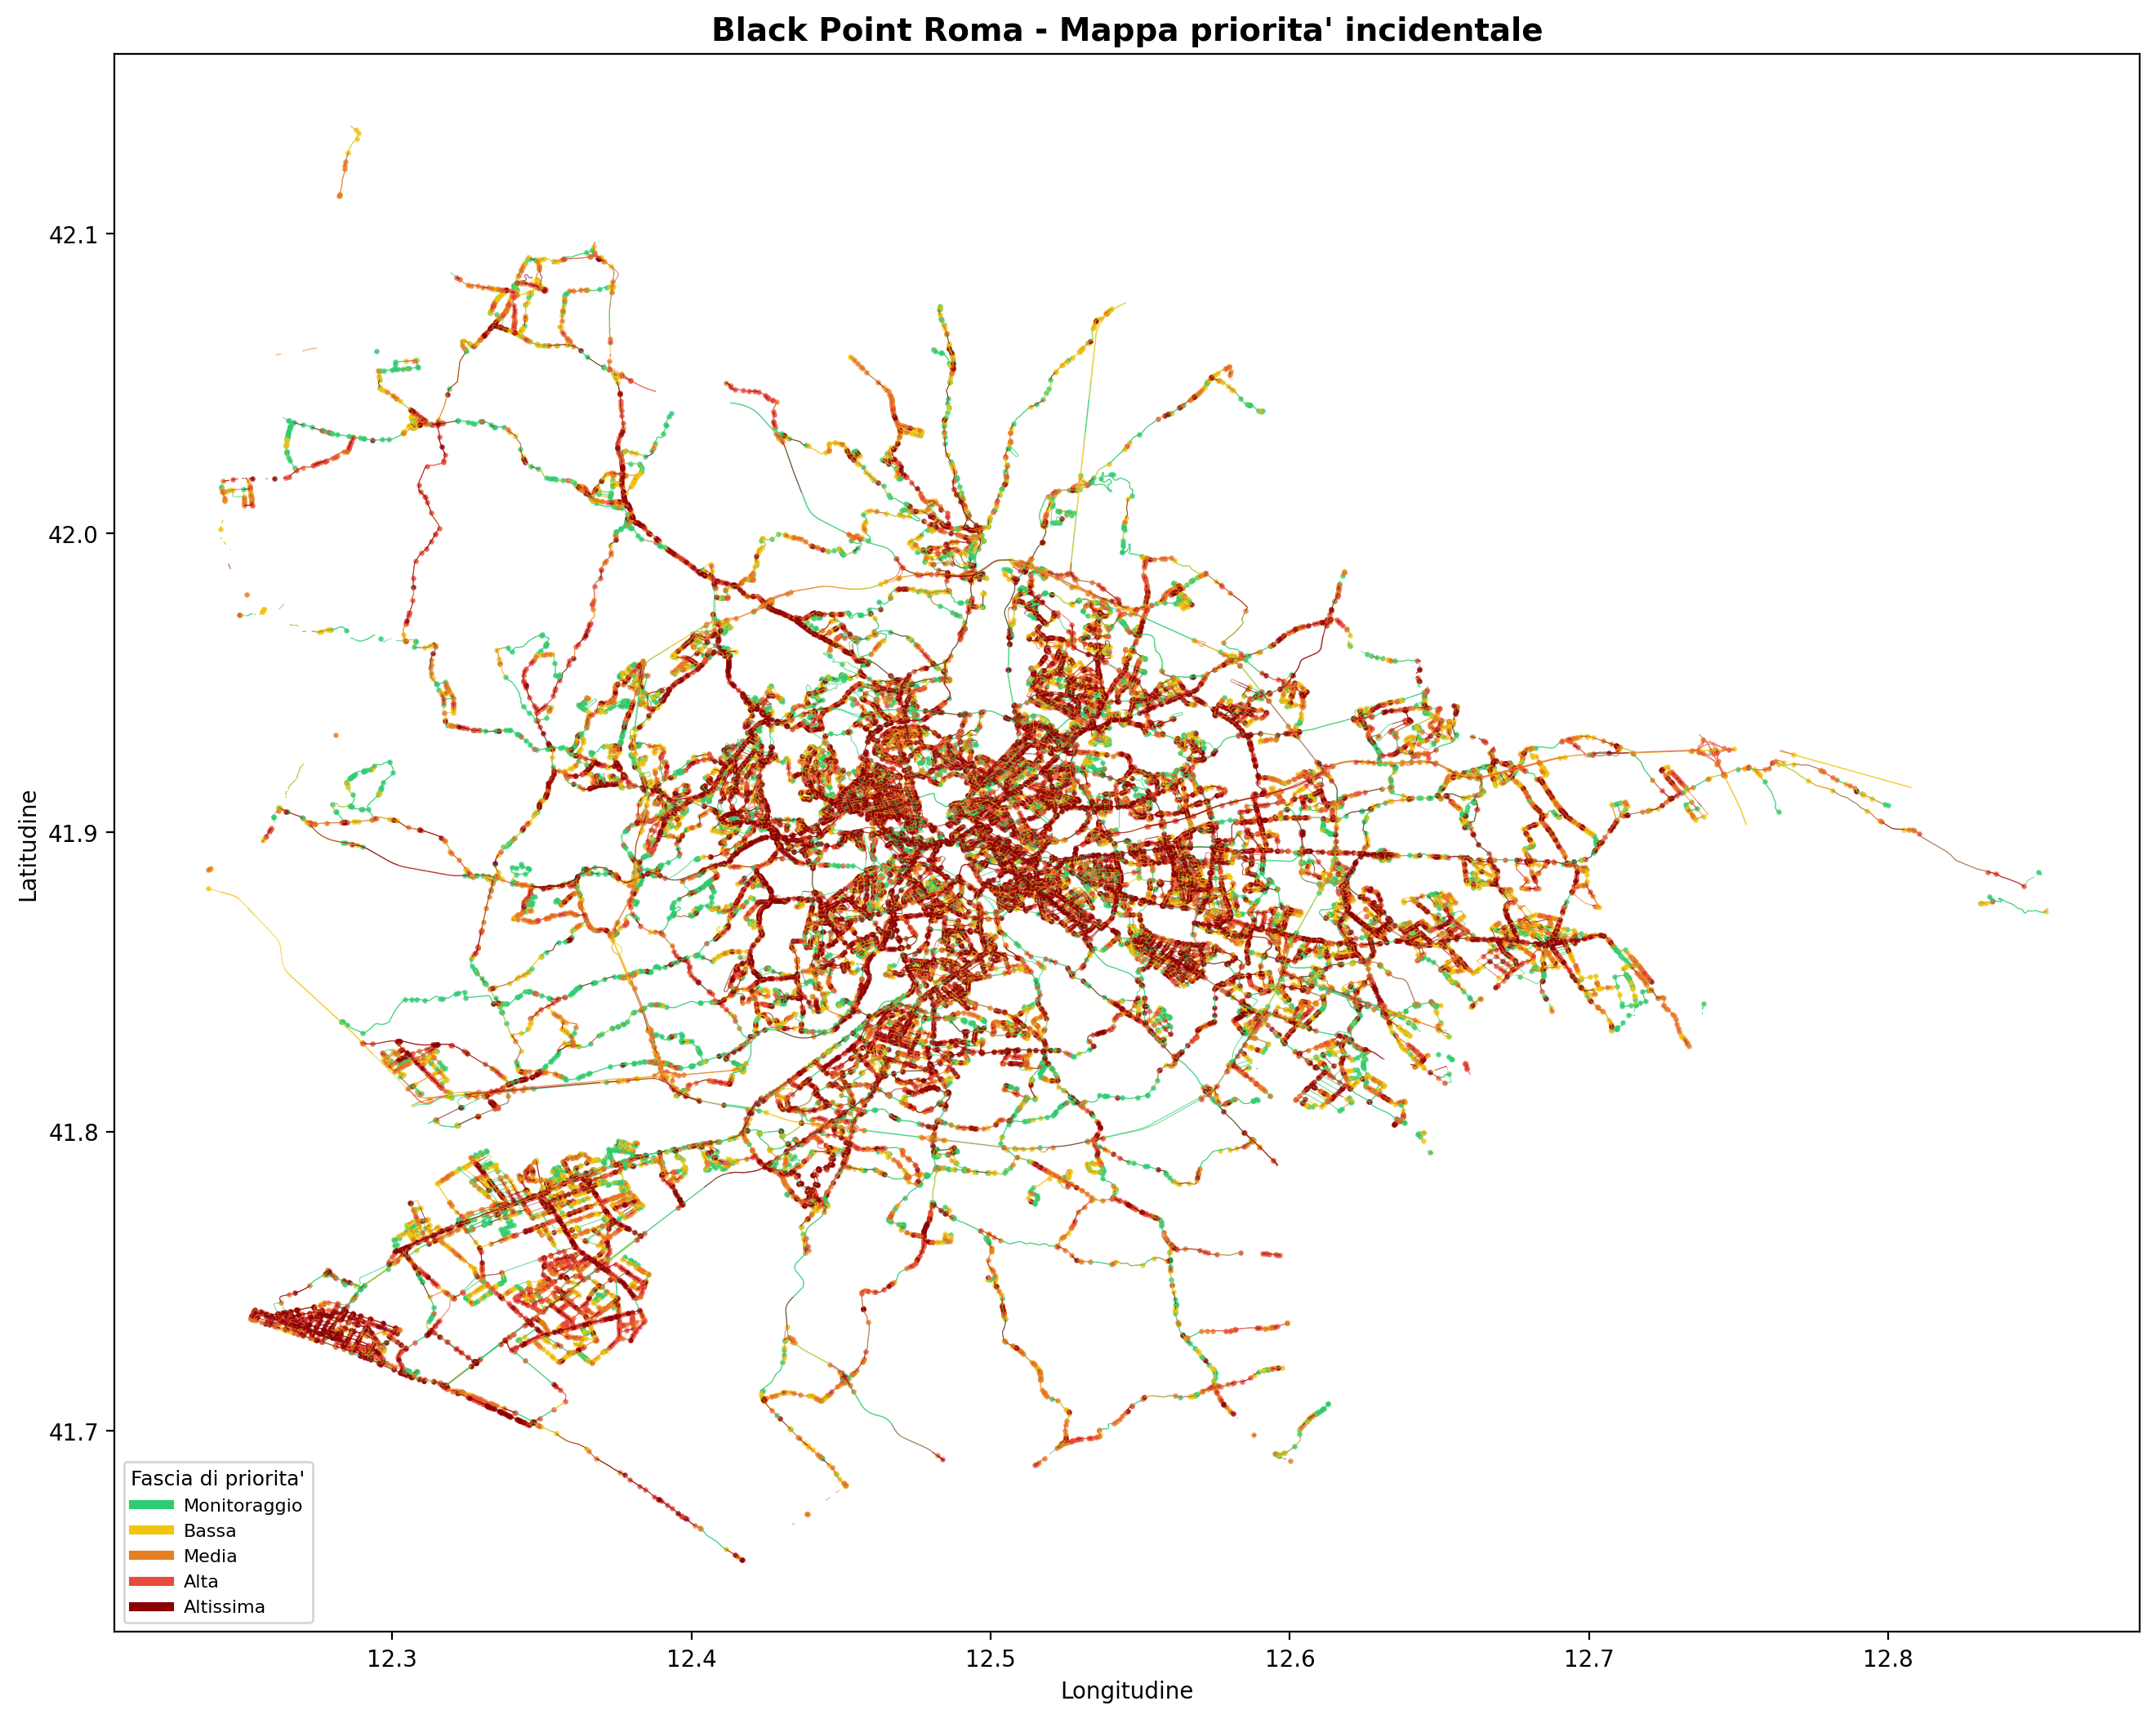
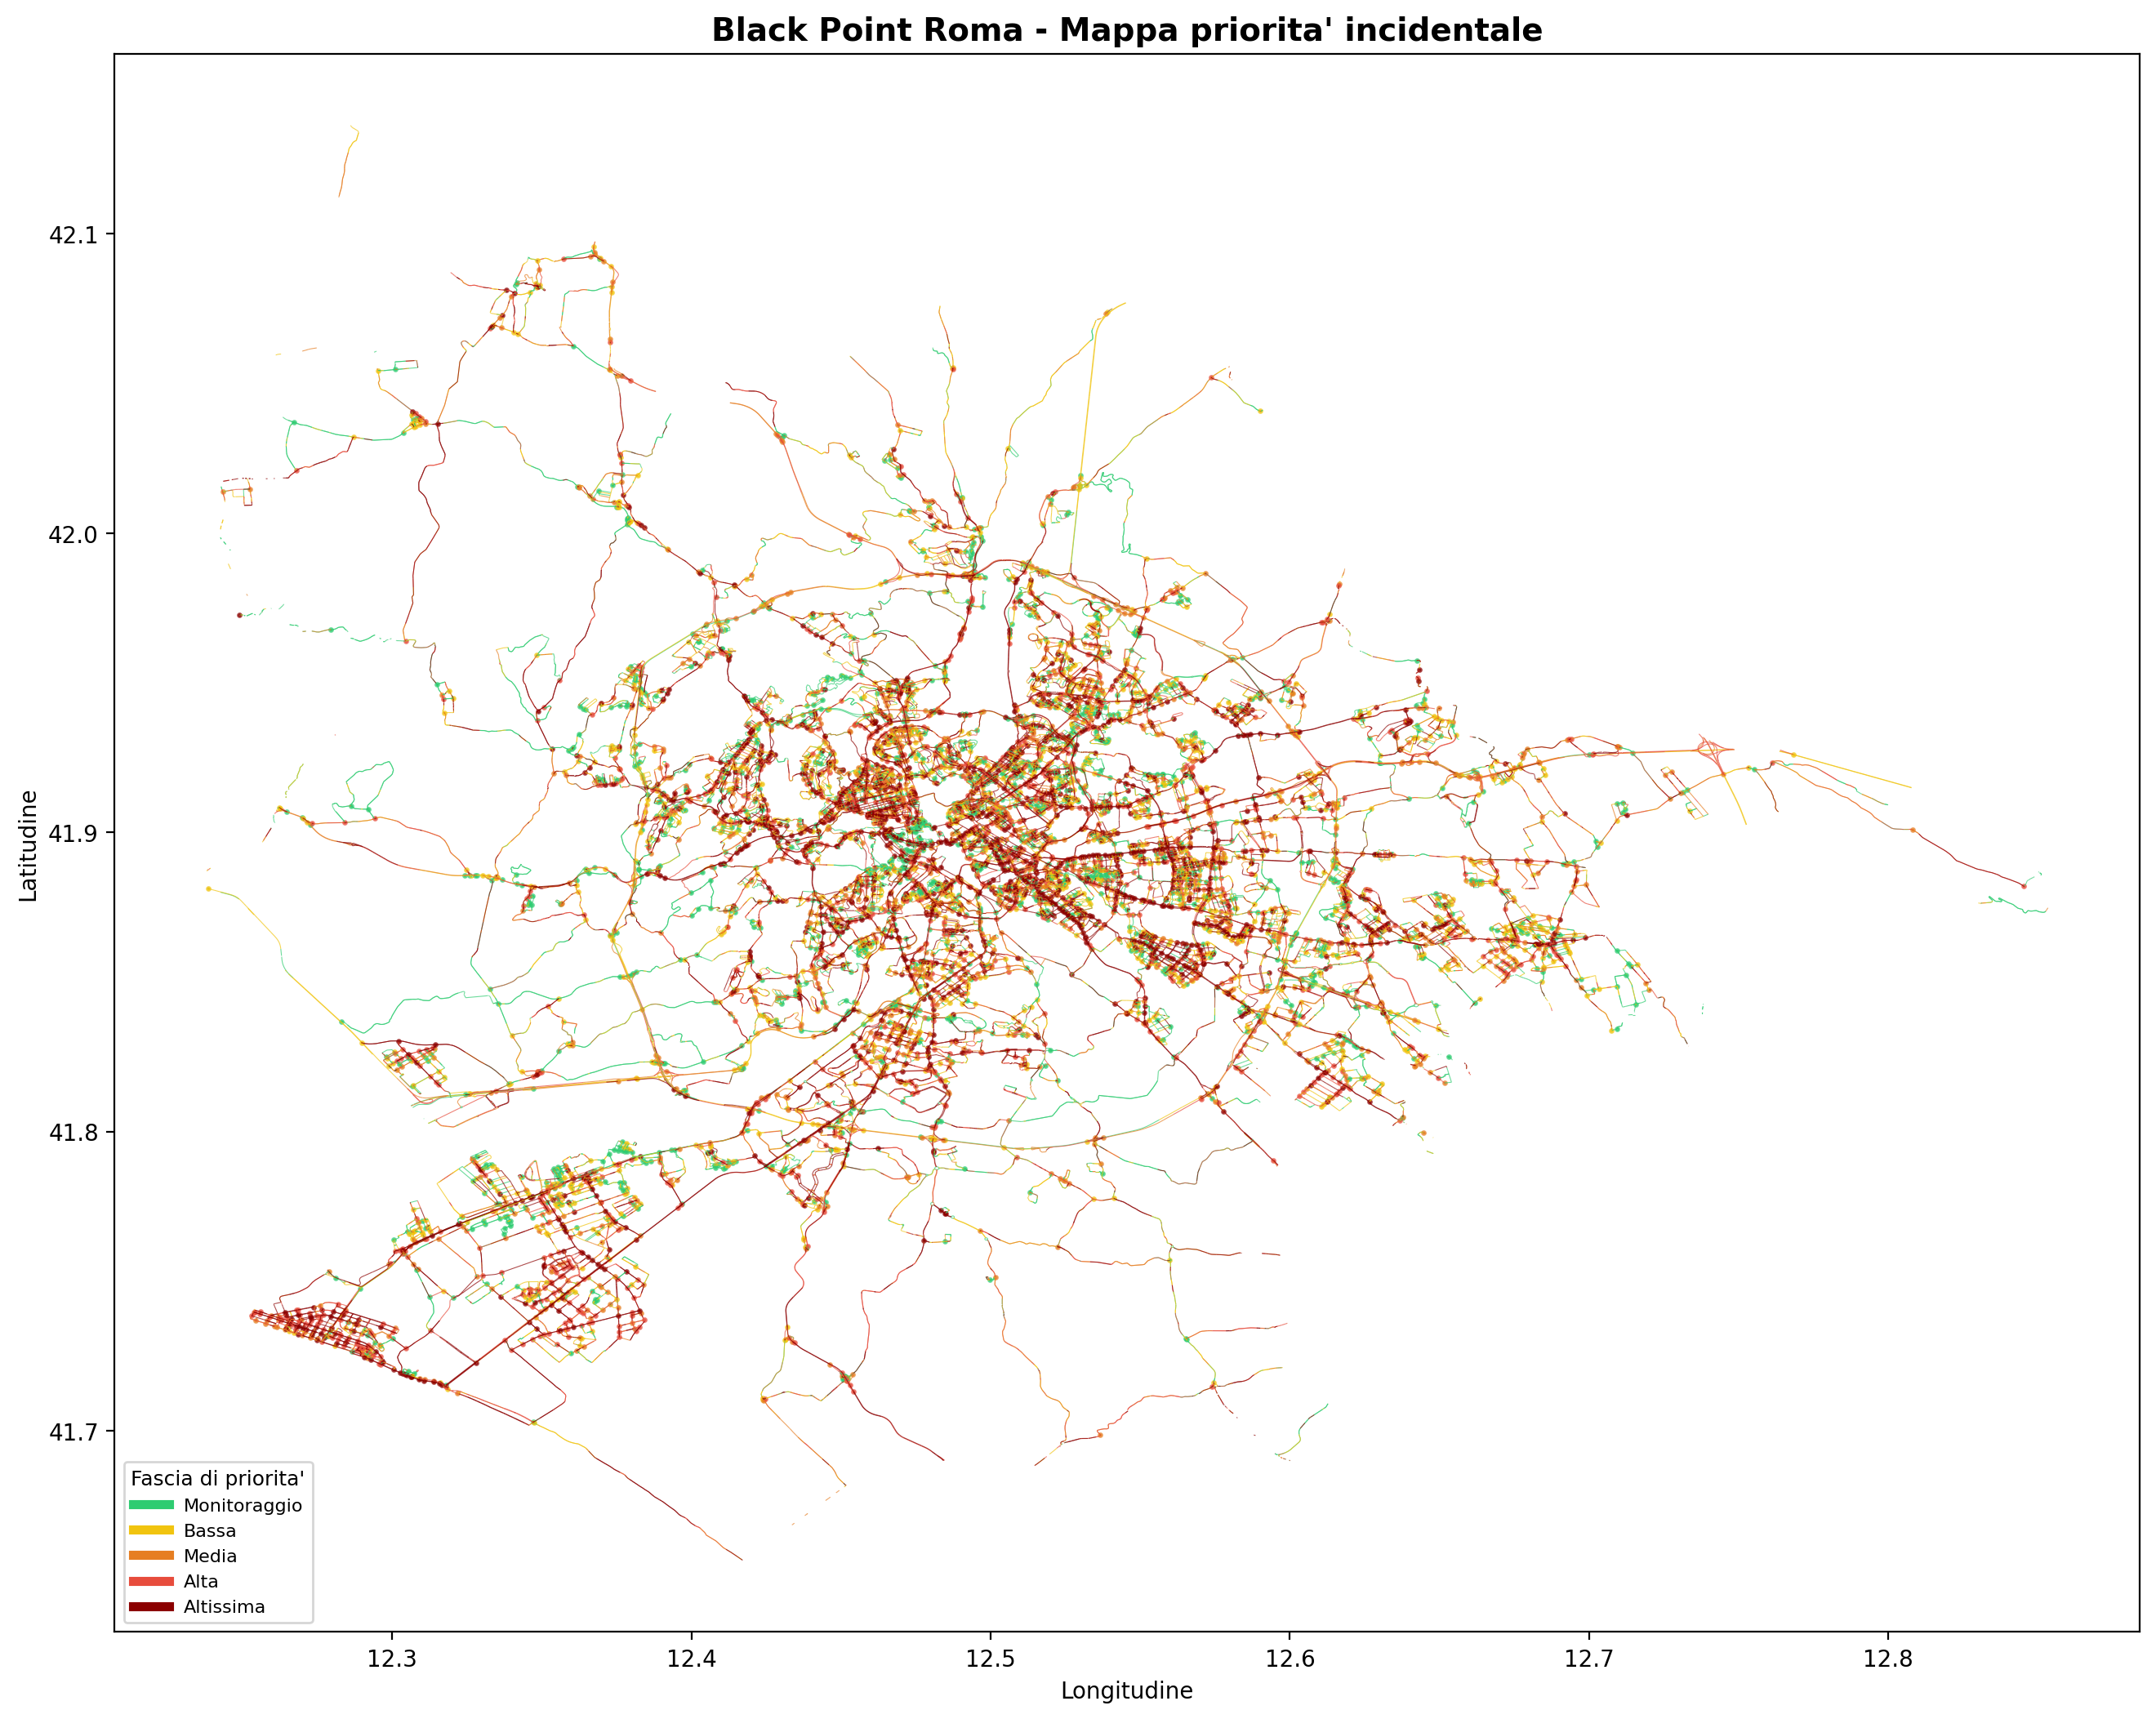
fix(s02+s05): filtro falsi incroci potenziato e normalizzazione zero-inflated
Issue 4: il filtro false intersezioni ora applica 3 criteri progressivi:
1) mono-toponimo esteso a grado 3 e 4 (era solo grado 3)
2) FRC uniforme: nodi grado 3-4 con stessa classe funzionale e <=2 toponimi
3) cluster di prossimità: nodi vicini (<30m) con toponimi sovrapposti fusi
   nel nodo a grado più alto (elimina intersezioni spurie intermedie)

Issue 3: normalizzazione robusta ora gestisce distribuzioni zero-inflated:
quando >50% dei valori è zero, i valori positivi vengono normalizzati a
[1,100] sulla sotto-distribuzione non-nulla. Risolve il problema di B_norm
degenere (tutti zeri) per i segmenti, dove <1% ha feriti gravi.

https://claude.ai/code/session_01GFEH8Hv5jjr6zeYrQinDEd

diff --git a/src/s02_matching.py b/src/s02_matching.py
@@ -202,6 +202,7 @@ def estrai_intersezioni(
     gdf_rete: gpd.GeoDataFrame,
     tolleranza_m: float = 0.5,
     filtra_falsi_incroci: bool = True,
+    raggio_cluster_intersezioni_m: float = 30.0,
 ) -> tuple[gpd.GeoDataFrame, pd.DataFrame]:
     """Estrae i nodi-intersezione della rete TomTom.
 
@@ -288,20 +289,164 @@ def estrai_intersezioni(
     )
 
     if filtra_falsi_incroci:
-        n_prima = len(gdf_intersezioni)
-        n_topo = gdf_intersezioni["toponimi"].apply(len)
-        mask_falso = (gdf_intersezioni["n_archi"] == 3) & (n_topo == 1)
-        gdf_intersezioni = gdf_intersezioni.loc[~mask_falso].copy()
-        n_filtrate = int(mask_falso.sum())
-        log.info(
-            "Filtrate %d false intersezioni su %d candidati "
-            "(3 archi, 1 solo toponimo distinto). Restano %d.",
-            n_filtrate,
-            n_prima,
-            len(gdf_intersezioni),
+        gdf_intersezioni = _filtra_falsi_incroci(
+            gdf_intersezioni, gdf_rete,
+            raggio_cluster_m=raggio_cluster_intersezioni_m,
         )
 
     return gdf_intersezioni, df_archi_nodi
+
+
+def _filtra_falsi_incroci(
+    gdf_intersezioni: gpd.GeoDataFrame,
+    gdf_rete: gpd.GeoDataFrame,
+    raggio_cluster_m: float = 30.0,
+) -> gpd.GeoDataFrame:
+    """Filtra le false intersezioni con tre criteri progressivi.
+
+    1. **Mono-toponimo**: nodi a grado 3 o 4 con un solo toponimo distinto
+       (confluenze di carreggiate separate, non veri incroci).
+    2. **FRC uniforme**: nodi a grado 3 o 4 dove tutti gli archi hanno la
+       stessa ``classe_frc`` e un solo toponimo (strada che si biforca e
+       rientra senza cambiare classe).
+    3. **Cluster di prossimita'**: nodi entro ``raggio_cluster_m`` che
+       condividono lo stesso set di toponimi vengono fusi in un unico nodo
+       (il baricentro del cluster), eliminando le false intersezioni
+       intermedie generate da micro-segmentazioni della rete.
+    """
+    n_prima = len(gdf_intersezioni)
+
+    # --- Filtro 1: mono-toponimo per grado 3 e 4 ---
+    n_topo = gdf_intersezioni["toponimi"].apply(len)
+    mask_falso_mono = (
+        gdf_intersezioni["n_archi"].isin([3, 4]) & (n_topo <= 1)
+    )
+    n_mono = int(mask_falso_mono.sum())
+    gdf_intersezioni = gdf_intersezioni.loc[~mask_falso_mono].copy()
+    log.info(
+        "Filtro mono-toponimo: %d false intersezioni rimosse su %d candidati "
+        "(grado 3-4, <=1 toponimo distinto). Restano %d.",
+        n_mono, n_prima, len(gdf_intersezioni),
+    )
+
+    # --- Filtro 2: FRC uniforme (grado 3-4, 1 solo FRC, <=2 toponimi) ---
+    if "classe_frc" in gdf_rete.columns and "id_arco" in gdf_rete.columns:
+        frc_per_arco = dict(
+            zip(gdf_rete["id_arco"].values, gdf_rete["classe_frc"].values)
+        )
+
+        def _frc_uniformi(archi: list[int]) -> bool:
+            frcs = {
+                frc_per_arco.get(a)
+                for a in archi
+                if frc_per_arco.get(a) is not None
+                and not (isinstance(frc_per_arco.get(a), float) and pd.isna(frc_per_arco.get(a)))
+            }
+            return len(frcs) == 1
+
+        n_pre_frc = len(gdf_intersezioni)
+        mask_frc = (
+            gdf_intersezioni["n_archi"].isin([3, 4])
+            & (gdf_intersezioni["toponimi"].apply(len) <= 2)
+            & gdf_intersezioni["archi"].apply(_frc_uniformi)
+        )
+        n_frc = int(mask_frc.sum())
+        gdf_intersezioni = gdf_intersezioni.loc[~mask_frc].copy()
+        log.info(
+            "Filtro FRC uniforme: %d false intersezioni rimosse su %d "
+            "(grado 3-4, FRC unica, <=2 toponimi). Restano %d.",
+            n_frc, n_pre_frc, len(gdf_intersezioni),
+        )
+
+    # --- Filtro 3: cluster di prossimita' ---
+    if len(gdf_intersezioni) > 1 and raggio_cluster_m > 0:
+        gdf_intersezioni = _cluster_intersezioni_vicine(
+            gdf_intersezioni, raggio_cluster_m,
+        )
+
+    log.info(
+        "Filtro falsi incroci completato: %d -> %d intersezioni.",
+        n_prima, len(gdf_intersezioni),
+    )
+    return gdf_intersezioni
+
+
+def _cluster_intersezioni_vicine(
+    gdf: gpd.GeoDataFrame,
+    raggio_m: float,
+) -> gpd.GeoDataFrame:
+    """Fonde intersezioni vicine con toponimi sovrapposti.
+
+    Nodi entro ``raggio_m`` che condividono almeno un toponimo vengono
+    raggruppati. Per ogni cluster si tiene il nodo con il grado piu' alto
+    (piu' archi convergenti) come rappresentante, spostandone la geometria
+    al baricentro del cluster. Gli altri nodi del cluster vengono rimossi.
+    """
+    from scipy.spatial import cKDTree
+
+    coords = np.column_stack([gdf.geometry.x.to_numpy(), gdf.geometry.y.to_numpy()])
+    tree = cKDTree(coords)
+    coppie = tree.query_pairs(r=float(raggio_m), output_type="ndarray")
+
+    if len(coppie) == 0:
+        return gdf
+
+    topo_sets = [set(t) for t in gdf["toponimi"].values]
+    idx_array = gdf.index.to_numpy()
+
+    n = len(gdf)
+    parent = np.arange(n, dtype=np.int64)
+
+    def find(i: int) -> int:
+        while parent[i] != i:
+            parent[i] = parent[parent[i]]
+            i = parent[i]
+        return i
+
+    def union(i: int, j: int) -> None:
+        ri, rj = find(i), find(j)
+        if ri != rj:
+            parent[max(ri, rj)] = min(ri, rj)
+
+    for i, j in coppie:
+        if topo_sets[i] & topo_sets[j]:
+            union(int(i), int(j))
+
+    cluster_ids = np.array([find(i) for i in range(n)], dtype=np.int64)
+    _, cluster_labels = np.unique(cluster_ids, return_inverse=True)
+
+    n_archi_vals = gdf["n_archi"].to_numpy()
+    keep_mask = np.zeros(n, dtype=bool)
+
+    for cl in range(cluster_labels.max() + 1):
+        membri = np.where(cluster_labels == cl)[0]
+        if len(membri) == 1:
+            keep_mask[membri[0]] = True
+            continue
+        rappresentante = membri[np.argmax(n_archi_vals[membri])]
+        keep_mask[rappresentante] = True
+        cx = coords[membri, 0].mean()
+        cy = coords[membri, 1].mean()
+        real_idx = idx_array[rappresentante]
+        gdf.at[real_idx, "geometry"] = Point(cx, cy)
+        merged_topo = set()
+        merged_archi = set()
+        for m in membri:
+            merged_topo.update(topo_sets[m])
+            merged_archi.update(gdf.at[idx_array[m], "archi"])
+        gdf.at[real_idx, "toponimi"] = sorted(merged_topo)
+        gdf.at[real_idx, "archi"] = sorted(merged_archi)
+        gdf.at[real_idx, "n_archi"] = len(merged_archi)
+
+    n_rimossi = int((~keep_mask).sum())
+    n_cluster_multi = int((np.bincount(cluster_labels) > 1).sum())
+    gdf = gdf.loc[idx_array[keep_mask]].copy()
+    log.info(
+        "Cluster prossimita' (raggio=%.0f m): %d cluster con >1 nodo, "
+        "%d nodi ridondanti rimossi. Restano %d.",
+        raggio_m, n_cluster_multi, n_rimossi, len(gdf),
+    )
+    return gdf
 
 
 # ---------------------------------------------------------------------------
@@ -1183,6 +1328,14 @@ def abbina_incidenti(
     # Log riassuntivo.
     conteggi = out["match_type"].value_counts().to_dict()
     log.info("  Esito matching: %s", conteggi)
+
+    # Verifica: nessun doppio conteggio.
+    n_tot = sum(conteggi.values())
+    assert n_tot == len(gdf_incidenti), (
+        f"Doppio conteggio nel matching: {n_tot} assegnazioni vs "
+        f"{len(gdf_incidenti)} incidenti"
+    )
+
     return out
 
 
@@ -1246,10 +1399,14 @@ def main(config: dict[str, Any]) -> None:
         config.get("matching", {}).get("tolleranza_nodo", 0.5)
     )
     filtra_incroci = config.get("matching", {}).get("filtra_falsi_incroci", True)
+    raggio_cluster_int = float(
+        config.get("matching", {}).get("raggio_cluster_intersezioni", 30.0)
+    )
     gdf_intersezioni, df_archi_nodi = estrai_intersezioni(
         gdf_rete,
         tolleranza_m=tolleranza_nodo,
         filtra_falsi_incroci=filtra_incroci,
+        raggio_cluster_intersezioni_m=raggio_cluster_int,
     )
 
     # Per la segmentazione servono anche tutti i nodi (non solo le

diff --git a/src/s05_indice_composito.py b/src/s05_indice_composito.py
@@ -108,18 +108,57 @@ def calcola_componente_D_intersezioni(
 
 
 def normalizza_robusta(
-    serie: pd.Series, p_min: float = 1.0, p_max: float = 99.0
+    serie: pd.Series,
+    p_min: float = 1.0,
+    p_max: float = 99.0,
+    soglia_zero_pct: float = 50.0,
 ) -> pd.Series:
     """Normalizza su scala 0-100 usando percentili robusti.
 
-    Valori sotto p_min -> 0, sopra p_max -> 100.
+    Se la percentuale di zeri supera ``soglia_zero_pct``, applica la
+    normalizzazione zero-inflated: i valori nulli restano 0, quelli
+    positivi vengono normalizzati a [1, 100] sulla sotto-distribuzione
+    dei soli valori > 0. Questo evita che componenti con molti zeri
+    (es. severita' sui segmenti, dove <1% ha feriti gravi) collassino
+    tutte a zero.
     """
+    vals = serie.dropna()
+    if len(vals) == 0:
+        return pd.Series(0.0, index=serie.index)
+
+    pct_zero = (vals == 0).sum() / len(vals) * 100.0
+    if pct_zero > soglia_zero_pct:
+        return _normalizza_zero_inflated(serie, p_min, p_max)
+
     lo = np.nanpercentile(serie, p_min)
     hi = np.nanpercentile(serie, p_max)
     if hi <= lo:
         return pd.Series(0.0, index=serie.index)
     norm = 100.0 * (serie - lo) / (hi - lo)
     return norm.clip(lower=0.0, upper=100.0)
+
+
+def _normalizza_zero_inflated(
+    serie: pd.Series, p_min: float, p_max: float,
+) -> pd.Series:
+    """Normalizzazione per distribuzioni zero-inflated.
+
+    Zero -> 0.0, valori positivi -> [1, 100] usando i percentili della
+    sotto-distribuzione dei soli valori > 0.
+    """
+    result = pd.Series(0.0, index=serie.index)
+    mask_pos = serie.fillna(0) > 0
+    if mask_pos.sum() == 0:
+        return result
+    positivi = serie.loc[mask_pos]
+    lo = np.nanpercentile(positivi, p_min)
+    hi = np.nanpercentile(positivi, p_max)
+    if hi <= lo:
+        result.loc[mask_pos] = 50.0
+        return result
+    norm = 1.0 + 99.0 * (positivi - lo) / (hi - lo)
+    result.loc[mask_pos] = norm.clip(lower=1.0, upper=100.0)
+    return result
 
 
 def calcola_icp(
@@ -195,6 +234,7 @@ def assembla_priorita(
     soglie_percentili: list[float],
     p_min: float,
     p_max: float,
+    soglia_zero_pct: float = 50.0,
 ) -> pd.DataFrame:
     """Calcola componenti, normalizza, computa ICP e classifica."""
     df = df.copy()
@@ -205,11 +245,11 @@ def assembla_priorita(
     df["C"] = calcola_componente_C(df)
     # D deve essere gia' presente nel DataFrame.
 
-    # Normalizzazione robusta.
-    df["A_norm"] = normalizza_robusta(df["A"], p_min, p_max)
-    df["B_norm"] = normalizza_robusta(df["B"], p_min, p_max)
-    df["C_norm"] = normalizza_robusta(df["C"], p_min, p_max)
-    df["D_norm"] = normalizza_robusta(df["D"], p_min, p_max)
+    # Normalizzazione robusta (zero-inflated se la componente ha troppi zeri).
+    df["A_norm"] = normalizza_robusta(df["A"], p_min, p_max, soglia_zero_pct)
+    df["B_norm"] = normalizza_robusta(df["B"], p_min, p_max, soglia_zero_pct)
+    df["C_norm"] = normalizza_robusta(df["C"], p_min, p_max, soglia_zero_pct)
+    df["D_norm"] = normalizza_robusta(df["D"], p_min, p_max, soglia_zero_pct)
 
     # ICP e classificazione.
     df["ICP"] = calcola_icp(df, pesi)
@@ -282,6 +322,7 @@ def main(config: dict[str, Any]) -> None:
     pesi = config["indice_composito"]["pesi"]
     p_min = float(config["indice_composito"]["percentile_min"])
     p_max = float(config["indice_composito"]["percentile_max"])
+    soglia_zero = float(config["indice_composito"].get("soglia_zero_pct", 50.0))
     soglie = [float(s) for s in config["classificazione"]["soglie_percentili"]]
 
     # Componente D.
@@ -291,9 +332,9 @@ def main(config: dict[str, Any]) -> None:
 
     # Assemblaggio.
     log.info("Assemblaggio indice composito segmenti...")
-    df_seg = assembla_priorita(df_seg, "segmento", pesi, soglie, p_min, p_max)
+    df_seg = assembla_priorita(df_seg, "segmento", pesi, soglie, p_min, p_max, soglia_zero)
     log.info("Assemblaggio indice composito intersezioni...")
-    df_int = assembla_priorita(df_int, "intersezione", pesi, soglie, p_min, p_max)
+    df_int = assembla_priorita(df_int, "intersezione", pesi, soglie, p_min, p_max, soglia_zero)
 
     # Riassunto.
     for nome, df in (("segmenti", df_seg), ("intersezioni", df_int)):